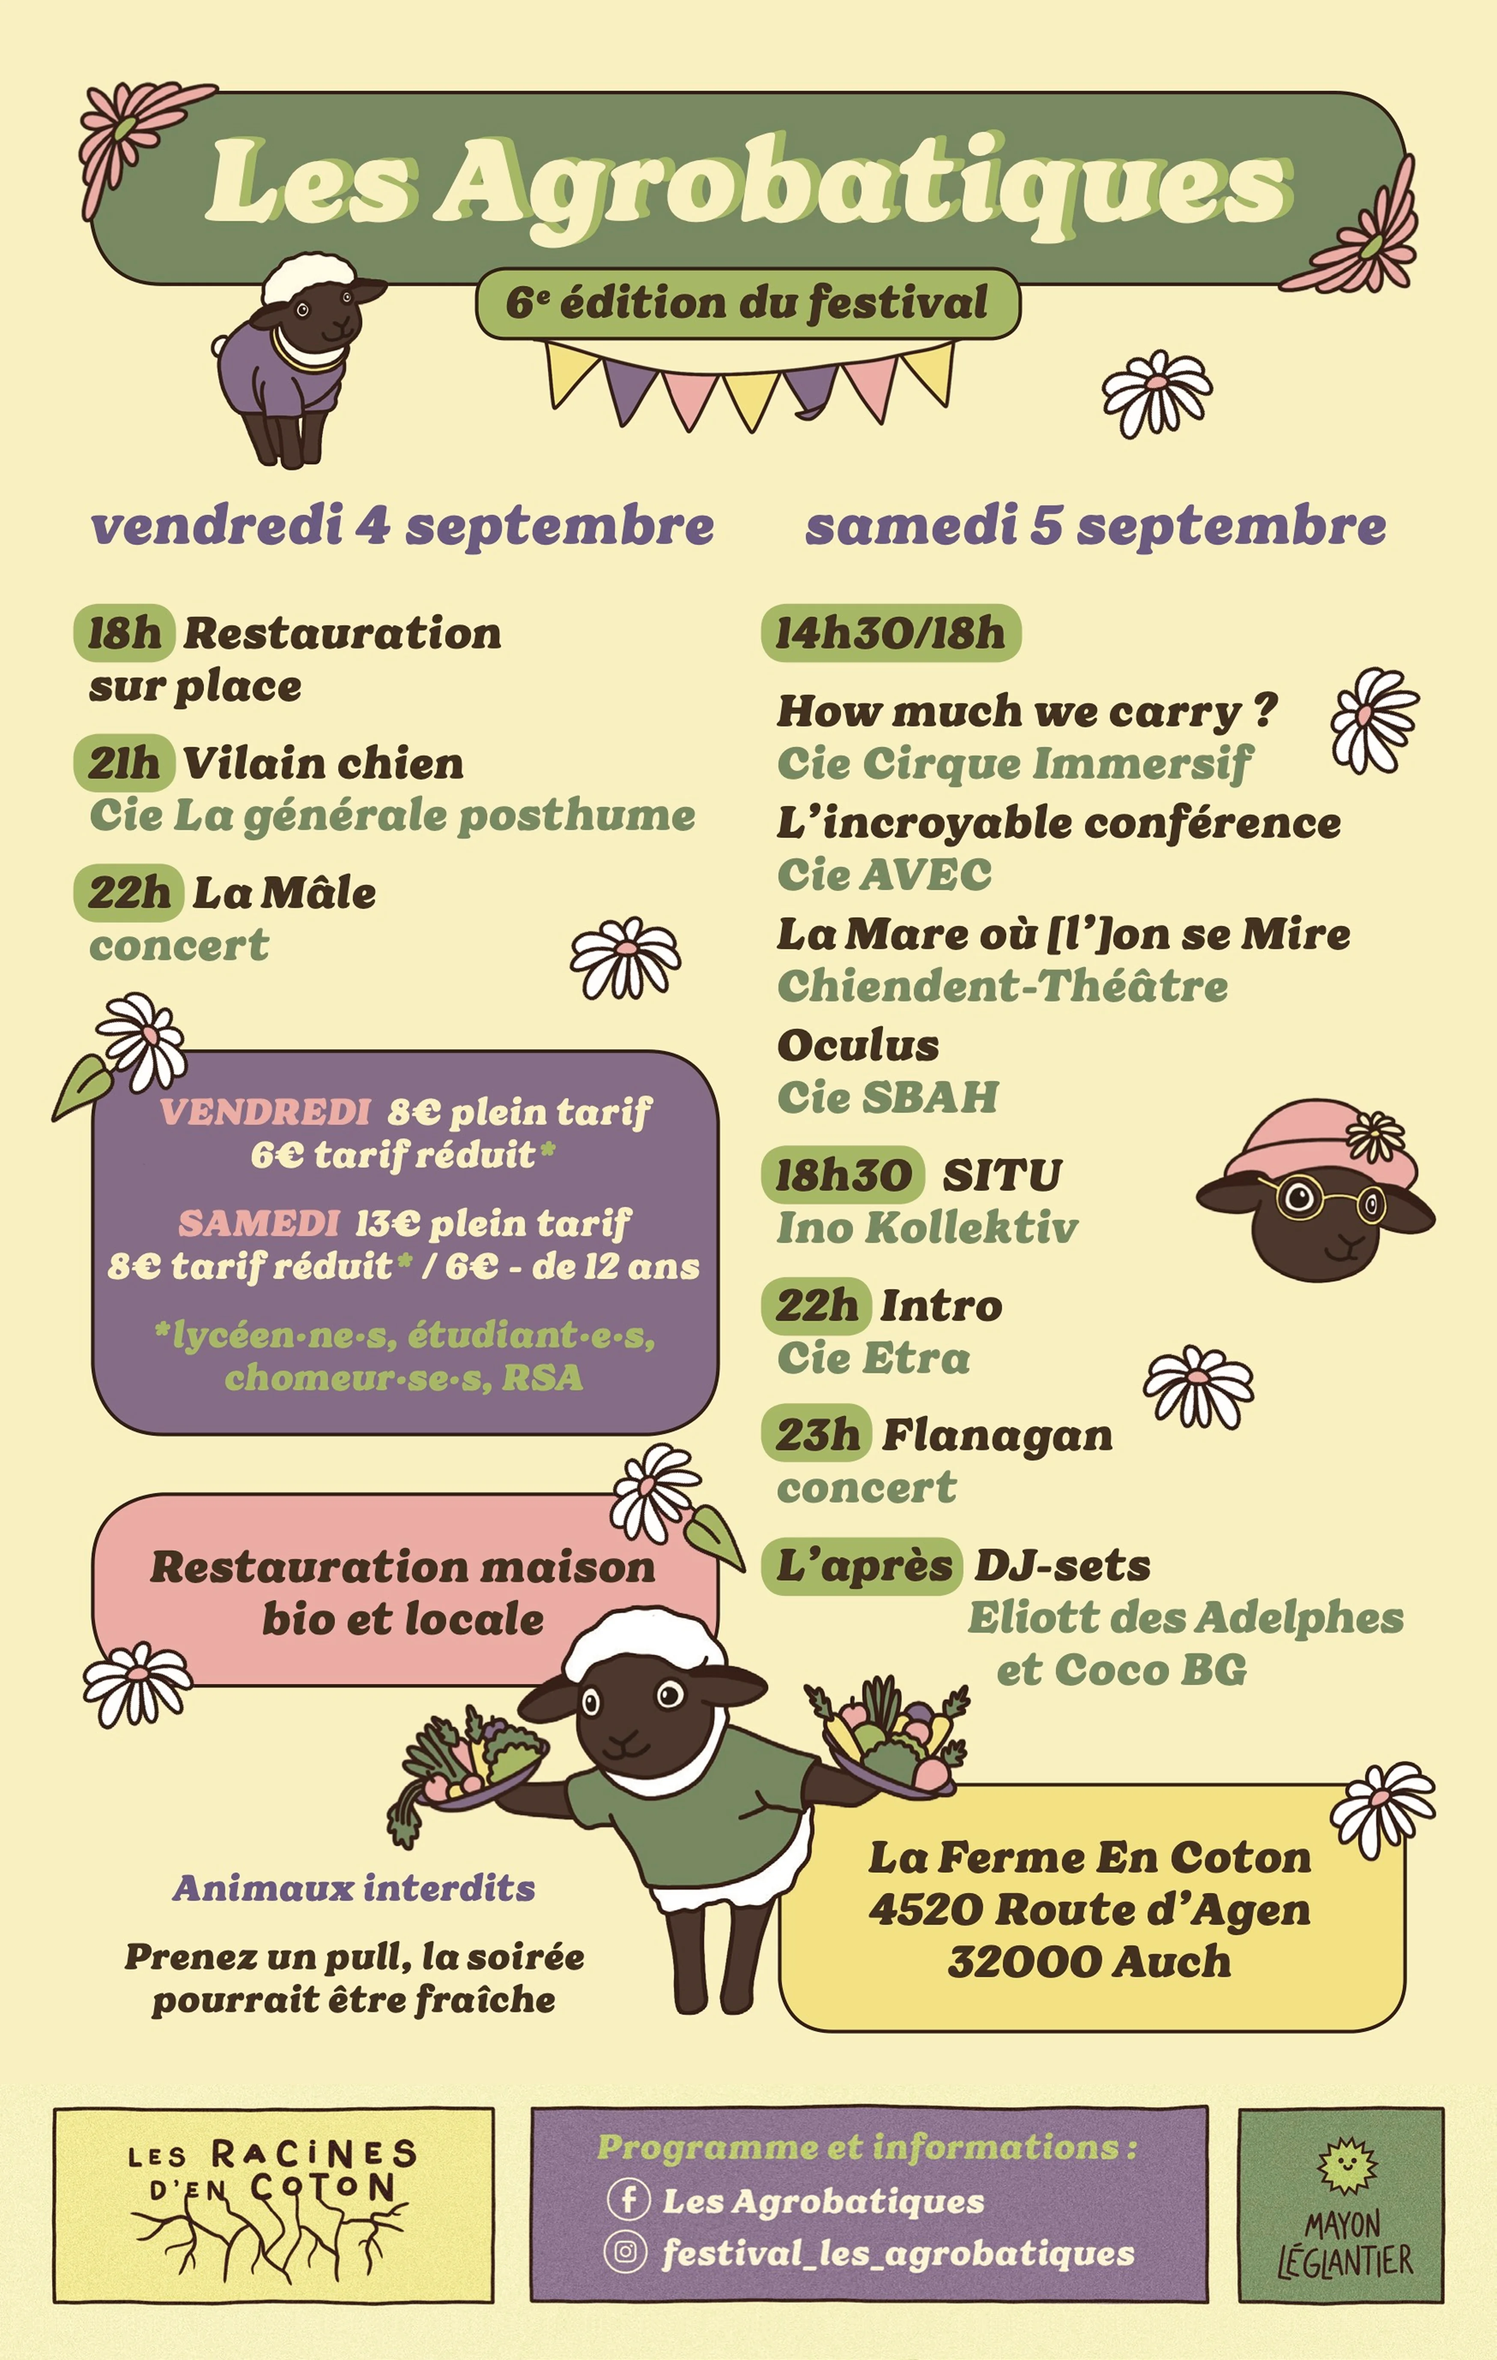
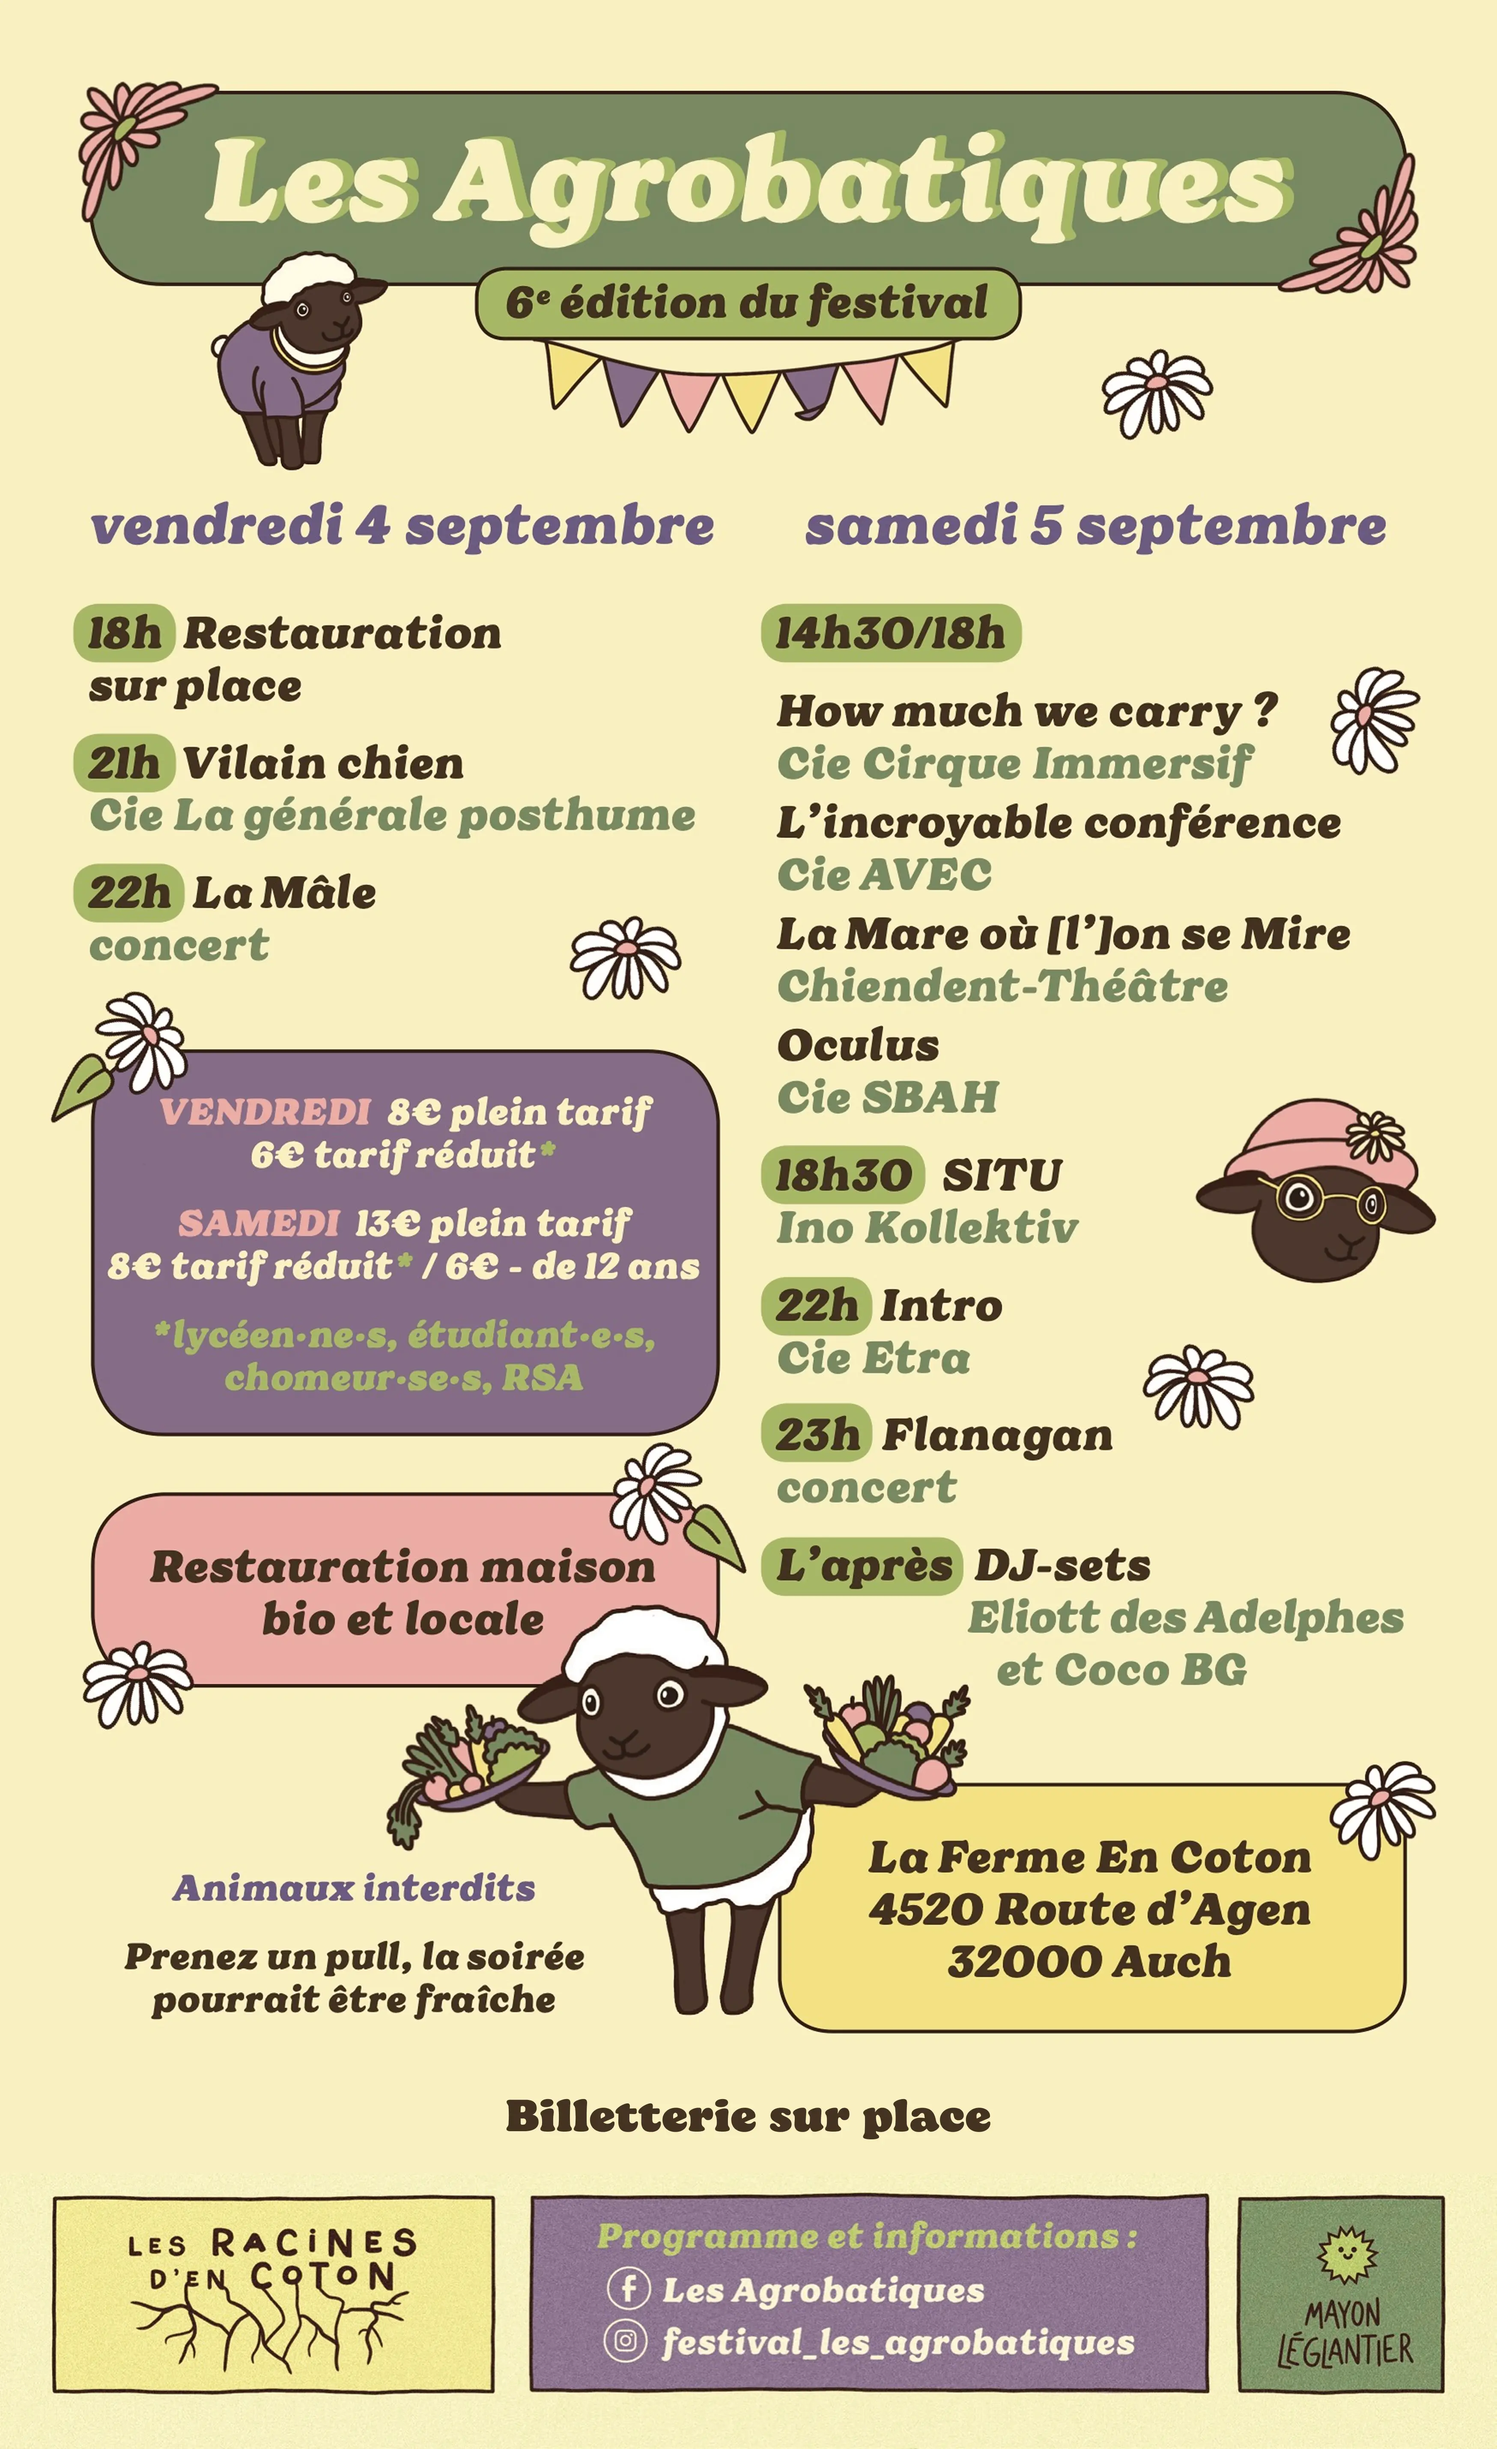
Add files via upload

diff --git a/index.html b/index.html
@@ -40,11 +40,11 @@
 
         /* Style pour l'image floutée */
         .blur-up {
-            width: 100vw;
+            width: 100vw;    max-width: 700px;
             height: auto;
             object-fit: contain;
             filter: blur(10px);
-            transition: filter 0.5s ease;
+            transition: filter 0.1s ease;
             display: block;
         }
 
@@ -59,7 +59,7 @@
         <source srcset="images/les-agrobatiques-festival-cirque-ferme-en-coton-auch-gers-2026.webp" type="image/webp">
         <img
             class="blur-up"
-            src="images/les-agrobatiques-festival-cirque-ferme-en-coton-auch-gers-2026-low.jpg"
+            src="images/les-agrobatiques-festival-cirque-ferme-en-coton-auch-gers-2026.jpg"
             alt="Affiche du festival Les Agrobatiques : cirque, spectacles, musique et repas conviviaux à la Ferme en Coton à Auch (Gers). Événement familial, local et bio."
             id="blurImage"
             loading="lazy"

diff --git a/style.css b/style.css
@@ -10,9 +10,15 @@ body {
     background-color: #F9F0C0;
 }
 
+body {
+    display: flex;
+    justify-content: center;
+}
+
 /* Style pour l'image */
 img {
     width: 100%;
+    max-width: 700px;
     height: auto;
     display: block;
 }
